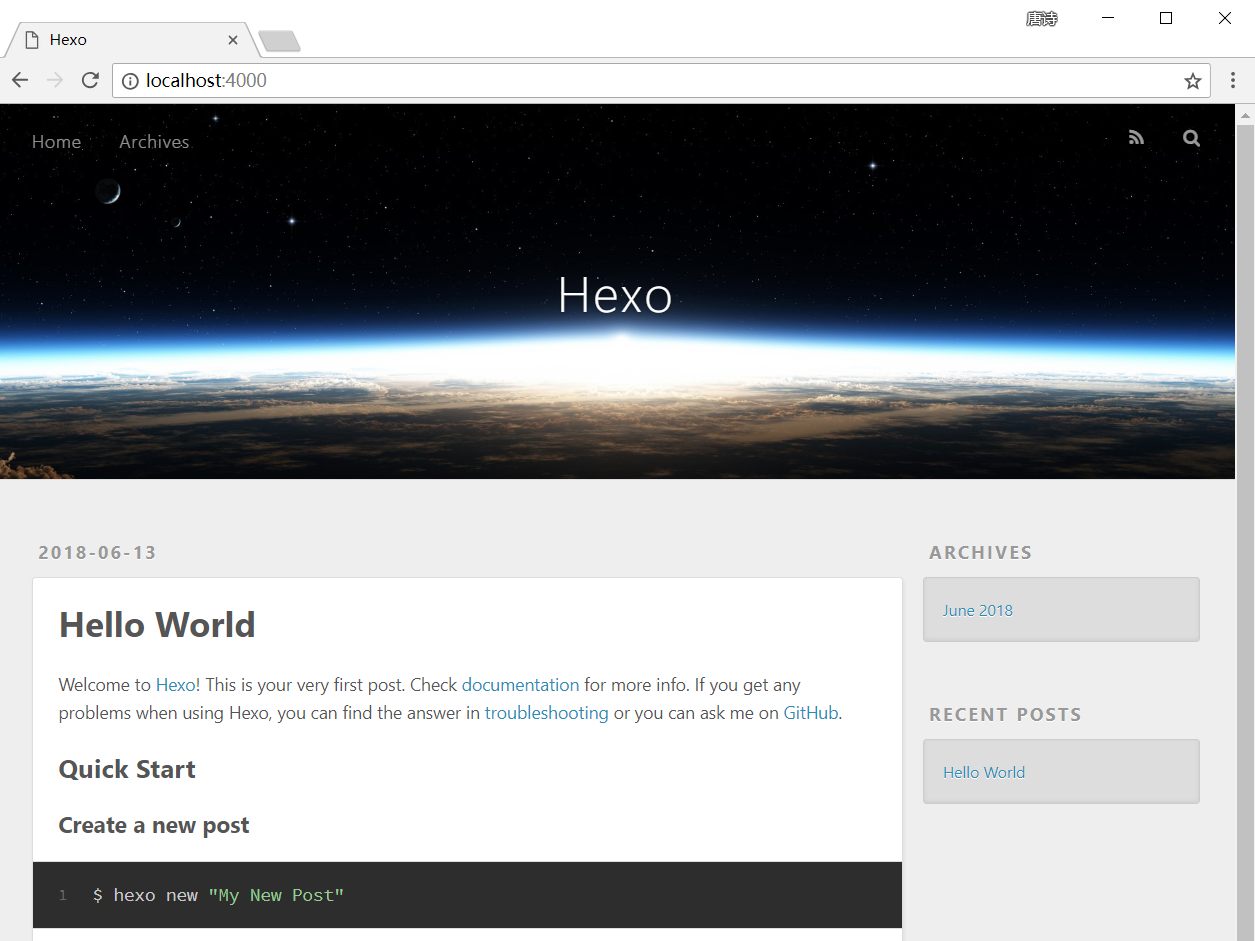
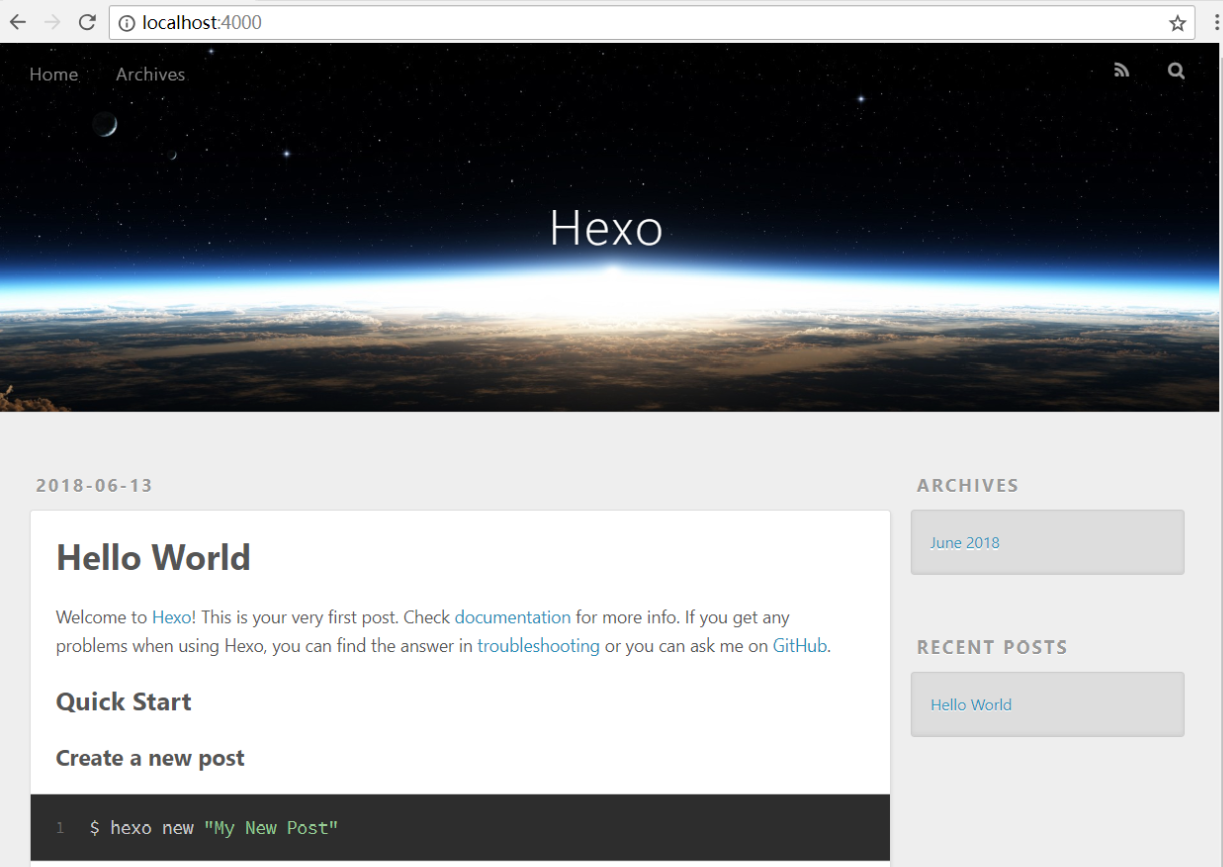
Site updated: 2019-04-14 17:06:29

diff --git a/css/main.css b/css/main.css
@@ -1853,7 +1853,7 @@ pre .javascript .function {
   width: 4px;
   height: 4px;
   border-radius: 50%;
-  background: #a66fff;
+  background: #fbfff7;
 }
 .feed-link,
 .chat {
